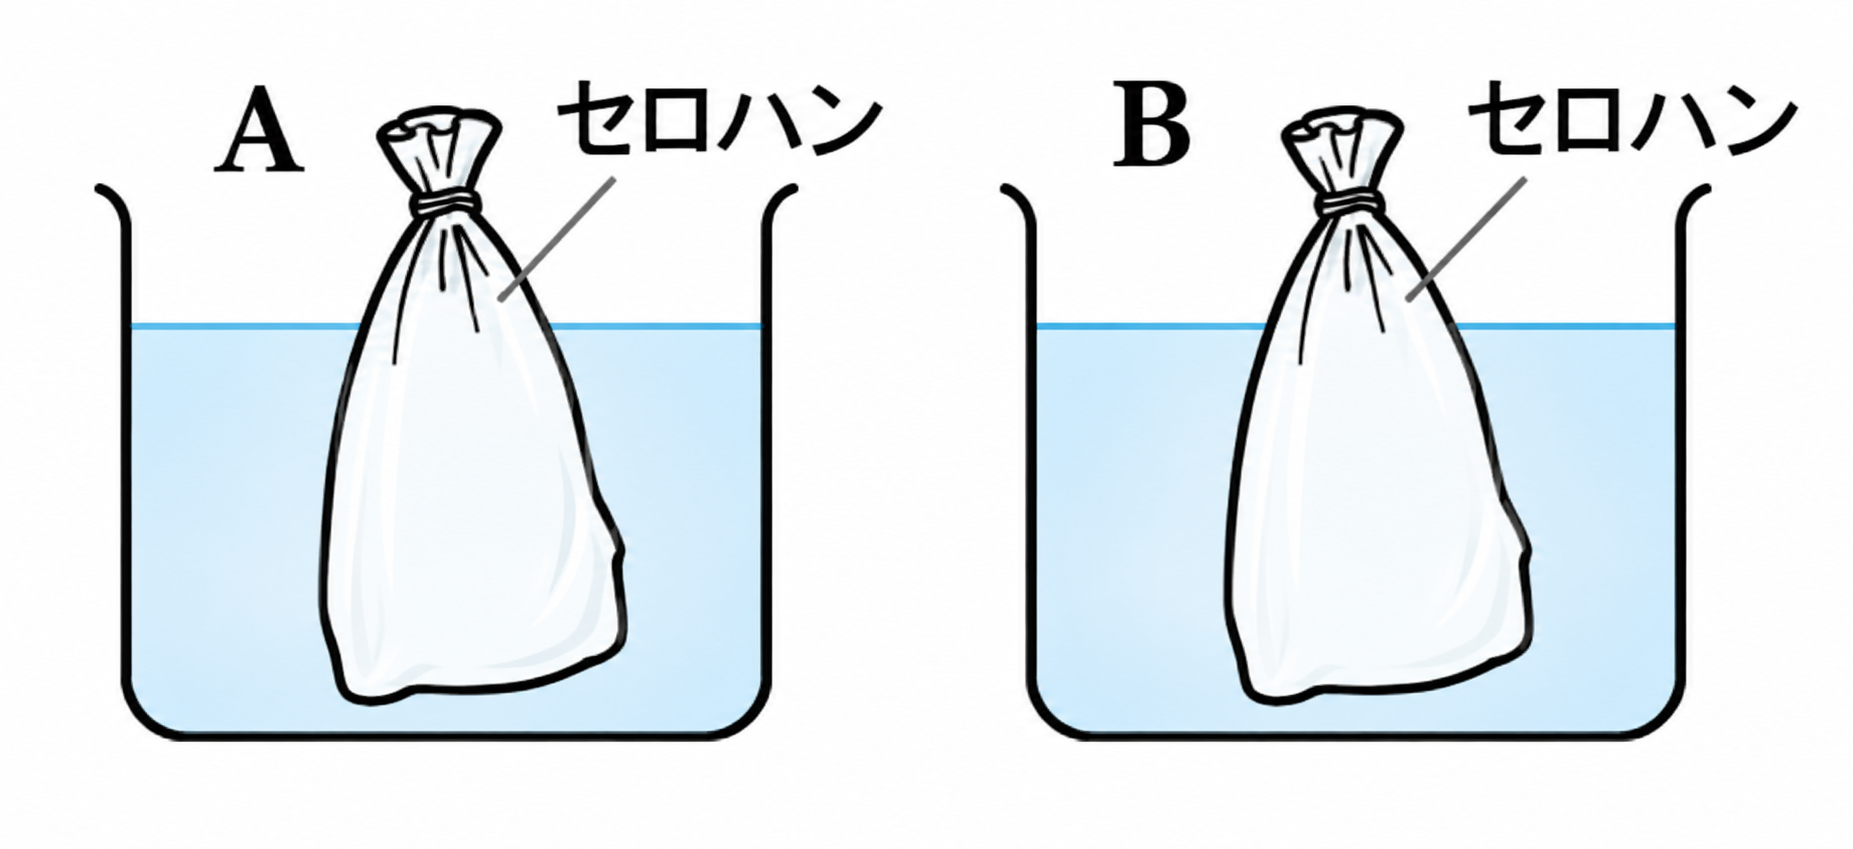
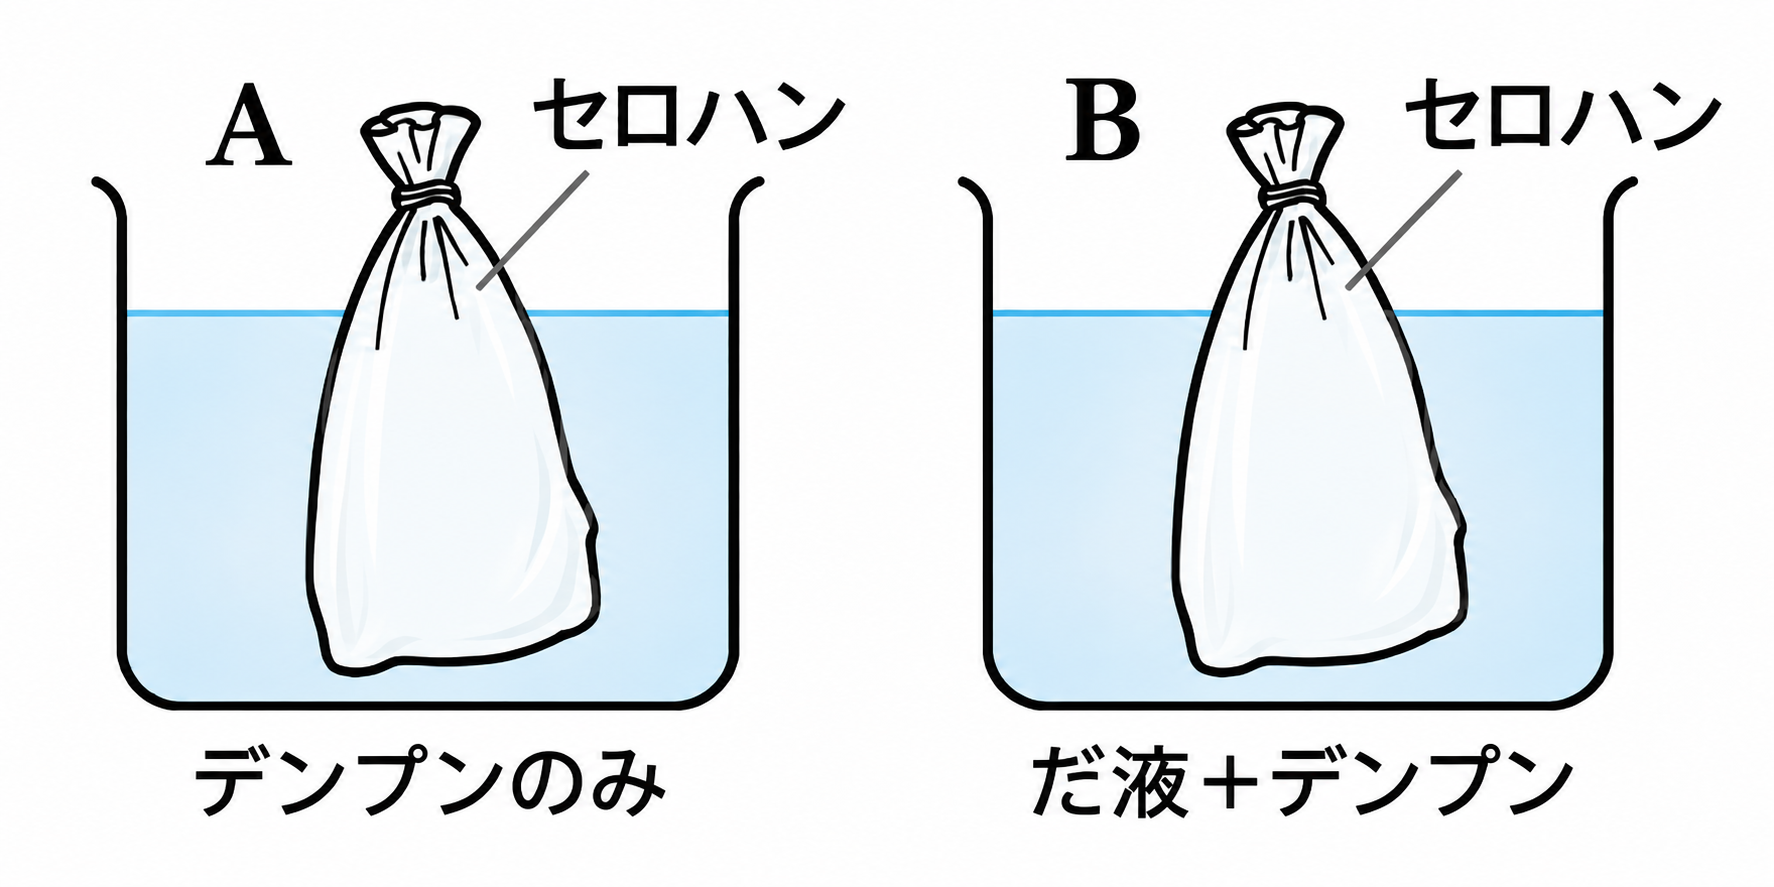
Add files via upload

diff --git a/jintai_ch01.html b/jintai_ch01.html
@@ -315,17 +315,25 @@ canvas#confetti-canvas{position:fixed;top:0;left:0;pointer-events:none;width:100
     <h2>セロハンを使った実験（発展）</h2>
   </div>
   <div class="unit-body">
-    <div class="exp-img"><img src="daekitoi2.png" alt="セロハンの袋を使った実験" style="max-width:100%;border-radius:10px;margin:10px auto;display:block;"></div>
     <div class="exp-text"><p>セロハンの膜には小さな穴があり、<b>小さな粒</b>だけを通し、<b>大きな粒</b>は通しません。</p>
-<p>試験管Aの液（デンプンのまま）とBの液（だ液で糖に変化）をセロハンの袋に入れ、水にしばらくつけたあと、外側の水を調べます。</p>
+<div class="exp-img"><img src="daekitoi3.png" alt="セロハンの膜での粒の大きさのちがい" style="max-width:100%;border-radius:10px;margin:10px auto;display:block;"></div>
+<p><b>【実験】</b><br>
+Aには、デンプン溶液のみをセロハンの袋に入れ、水に浸します。<br>
+Bには、デンプン溶液にだ液を加えたものをセロハンの袋に入れ、水に浸します。</p>
+<p><b>問）</b>Aのセロハンの袋の内側と外側、Bのセロハンの袋の内側と外側の部分で、それぞれヨウ素反応・ベネジクト反応が起こるかどうか答えなさい。</p>
+<div class="exp-img"><img src="daekitoi2.png" alt="セロハンの袋を使った実験（A：デンプンのみ／B：だ液＋デンプン）" style="max-width:100%;border-radius:10px;margin:10px auto;display:block;"></div>
+<p>この実験では、セロハンの袋の<b>内側</b>の液と、袋の外に出た<b>外側</b>の水の両方を調べます。</p>
 <table class="exp-tbl">
-<thead><tr><th>ビーカーの水</th><th>ヨウ素液</th><th>ベネジクト液＋加熱</th></tr></thead>
+<thead><tr><th></th><th>ヨウ素反応</th><th>ベネジクト反応</th></tr></thead>
 <tbody>
-<tr><td class="nc">Aの袋のほう</td><td>変化なし</td><td>変化なし</td></tr>
-<tr><td class="nc">Bの袋のほう</td><td>変化なし</td><td>赤褐色の沈殿</td></tr>
+<tr><td class="nc">Aの内側</td><td>○ 青紫色になる</td><td>✕ 変化なし</td></tr>
+<tr><td class="nc">Aの外側</td><td>✕ 変化なし</td><td>✕ 変化なし</td></tr>
+<tr><td class="nc">Bの内側</td><td>✕ 変化なし</td><td>○ 赤褐色の沈殿</td></tr>
+<tr><td class="nc">Bの外側</td><td>✕ 変化なし</td><td>○ 赤褐色の沈殿</td></tr>
 </tbody>
 </table>
-<p>Aの水は変化しません。デンプンの粒が大きく、セロハンを通れないためです。Bの水は<b>赤褐色</b>の沈殿ができます。糖の粒が小さく、セロハンを通り抜けたためです。</p>
+<p>Aにはだ液を加えていないので、袋の中は<b>デンプンのまま</b>です。デンプンの粒は大きいためセロハンの外に出られず、<b>内側だけ</b>ヨウ素反応が起こり、外側はヨウ素反応・ベネジクト反応ともに変化しません。</p>
+<p>Bはだ液のはたらきでデンプンがほぼすべて<b>糖</b>に変わっているため、内側でもヨウ素反応は起こりません。糖の粒は小さいためセロハンを通り抜けられるので、内側だけでなく<b>外側の水にもベネジクト反応</b>が現れます。</p>
 <div class="pt-box"><b>【重要】</b><br>
 ・セロハンの穴…小さな粒だけを通す<br>
 ・デンプン（大きい）→通れない／糖（小さい）→通れる<br>
@@ -334,10 +342,10 @@ canvas#confetti-canvas{position:fixed;top:0;left:0;pointer-events:none;width:100
     <div class="kw-list"></div>
     <button class="mini-btn" onclick="toggleMini('mt3')">
       🧪 ミニテストに挑戦！
-      <span id="mini-badge-mt3" style="background:#fff;color:var(--pink-d);border-radius:12px;padding:2px 10px;font-size:.82rem;margin-left:8px;">0 / 5</span>
+      <span id="mini-badge-mt3" style="background:#fff;color:var(--pink-d);border-radius:12px;padding:2px 10px;font-size:.82rem;margin-left:8px;">0 / 7</span>
     </button>
     <div class="mini-section" id="mini_mt3">
-      <div class="mini-score-row" id="pips_mt3"><div class="mini-score-pip" id="pip_mt3_1"></div><div class="mini-score-pip" id="pip_mt3_2"></div><div class="mini-score-pip" id="pip_mt3_3"></div><div class="mini-score-pip" id="pip_mt3_4"></div><div class="mini-score-pip" id="pip_mt3_5"></div></div>
+      <div class="mini-score-row" id="pips_mt3"><div class="mini-score-pip" id="pip_mt3_1"></div><div class="mini-score-pip" id="pip_mt3_2"></div><div class="mini-score-pip" id="pip_mt3_3"></div><div class="mini-score-pip" id="pip_mt3_4"></div><div class="mini-score-pip" id="pip_mt3_5"></div><div class="mini-score-pip" id="pip_mt3_6"></div><div class="mini-score-pip" id="pip_mt3_7"></div></div>
       <div class="q-block" id="qblock_mt3_q1">
   <h4>Q1. 文中の①〜⑤に当てはまる語句を語群から選んで入れよう。</h4>
   <p style="font-size:.88rem;color:#555;margin-bottom:6px;">セロハンの穴は①な粒だけを通し、②な粒は通さない。Aの袋（③のまま）を入れた水は変化しなかったが、Bの袋（分解された④）を入れた水はベネジクト液で⑤の沈殿ができた。</p>
@@ -400,6 +408,29 @@ canvas#confetti-canvas{position:fixed;top:0;left:0;pointer-events:none;width:100
   <div class="fb-msg" id="fb_mt3_q5"></div>
   <div class="msample" id="samp_mt3_q5">正解: イ：消化された物質の粒は、もとの物質より小さくなる　デンプン（大きい粒）が消化されて糖（小さい粒）になり、セロハンを通れるようになりました。</div>
 </div>
+<div class="q-block" id="qblock_mt3_q6">
+  <h4>Q6. Aには、デンプン溶液のみをセロハンの袋に入れ、水に浸します。Bには、デンプン溶液にだ液を加えたものをセロハンの袋に入れ、水に浸します。Aのセロハンの袋の内側と外側、Bのセロハンの袋の内側と外側の部分で、それぞれヨウ素反応・ベネジクト反応が起こるかどうかを正しく表しているものはどれか。</h4>
+  <div class="choice-list" id="choices_mt3_q6">
+    <button class="choice-btn" onclick="pick4('mt3',6,0,1,'mt3_q6')">ア：Aは内側だけヨウ素反応が起こる。Bは内側・外側の両方でベネジクト反応が起こる。</button>
+    <button class="choice-btn" onclick="pick4('mt3',6,1,1,'mt3_q6')">イ：Aは内側・外側の両方でヨウ素反応が起こる。Bは内側・外側の両方でベネジクト反応が起こる。</button>
+    <button class="choice-btn" onclick="pick4('mt3',6,2,1,'mt3_q6')">ウ：Aは外側だけヨウ素反応が起こる。Bは内側だけベネジクト反応が起こる。</button>
+    <button class="choice-btn" onclick="pick4('mt3',6,3,1,'mt3_q6')">エ：AもBも内側・外側とも、どちらの反応も起こらない。</button>
+  </div>
+  <div class="fb-msg" id="fb_mt3_q6"></div>
+  <div class="msample" id="samp_mt3_q6">正解: ア　デンプンの粒は大きいため、セロハンの穴を通り抜けることができません。そのため、Aの<b>内側</b>にはデンプンが残っているのでヨウ素反応（青紫色）が起こりますが、<b>外側</b>の水にはデンプンが出てこないため、内側・外側とも反応は起こりません。<br><br>一方、Bはだ液のアミラーゼによってデンプンが<b>糖（麦芽糖など）</b>に分解されています。糖の粒はデンプンより小さいため、セロハンの穴を通り抜けることができます。そのため、Bは<b>内側だけでなく外側の水にも糖が出てきて</b>、内側・外側の両方でベネジクト反応（赤褐色の沈殿）が起こります。<br><br>この実験から、消化された物質（糖）の粒は、もとの物質（デンプン）の粒より<b>小さくなる</b>ことがわかります。</div>
+</div>
+<div class="q-block" id="qblock_mt3_q7">
+  <h4>Q7. 今度はA・Bの中身を入れ替えます。Aには、デンプン溶液にだ液を加えたものをセロハンの袋に入れ、水に浸します。Bには、デンプン溶液のみをセロハンの袋に入れ、水に浸します。Aのセロハンの袋の内側と外側、Bのセロハンの袋の内側と外側の部分で、それぞれヨウ素反応・ベネジクト反応が起こるかどうかを正しく表しているものはどれか。</h4>
+  <div class="exp-img"><img src="daekitoi4.png" alt="セロハンの袋を使った実験（A：だ液＋デンプン／B：デンプンのみ）" style="max-width:100%;border-radius:10px;margin:6px auto 10px;display:block;"></div>
+  <div class="choice-list" id="choices_mt3_q7">
+    <button class="choice-btn" onclick="pick4('mt3',7,0,0,'mt3_q7')">ア：Aは内側・外側の両方でベネジクト反応が起こる。Bは内側だけヨウ素反応が起こる。</button>
+    <button class="choice-btn" onclick="pick4('mt3',7,1,0,'mt3_q7')">イ：Aは内側だけヨウ素反応が起こる。Bは内側・外側の両方でベネジクト反応が起こる。</button>
+    <button class="choice-btn" onclick="pick4('mt3',7,2,0,'mt3_q7')">ウ：Aは内側・外側ともヨウ素反応が起こる。Bは内側・外側ともベネジクト反応が起こる。</button>
+    <button class="choice-btn" onclick="pick4('mt3',7,3,0,'mt3_q7')">エ：AもBも内側・外側とも、どちらの反応も起こらない。</button>
+  </div>
+  <div class="fb-msg" id="fb_mt3_q7"></div>
+  <div class="msample" id="samp_mt3_q7">正解: ア　今度はAにだ液が入っています。Aの中のデンプンはすでに<b>糖</b>に分解されているので、糖の粒はセロハンの穴を通り抜けられます。そのため、Aは<b>内側だけでなく外側の水にもベネジクト反応</b>（赤褐色の沈殿）が起こります。<br><br>一方Bはデンプン溶液のみなので、デンプンの粒が大きくセロハンを通れず、<b>内側だけ</b>ヨウ素反応（青紫色）が起こります。<br><br>A・Bどちらに何が入っているかをよく確認しないと、前の問題と同じ答え（イ）を選んでしまうミスが起こりやすいので注意しましょう。大切なのは記号ではなく、<b>だ液が入っているかどうか</b>です。</div>
+</div>
       <div class="pass-banner" id="pass_mt3">🎉 この単元クリア！すばらしい！ 🎉</div>
     </div>
   </div>
@@ -416,16 +447,6 @@ canvas#confetti-canvas{position:fixed;top:0;left:0;pointer-events:none;width:100
 <p>小腸の内側には図のような<b>柔毛</b>という小さな突起が多数あり、吸収の<b>表面積</b>を大きくしています。</p>
 <p>デンプンは<b>ブドウ糖</b>、タンパク質は<b>アミノ酸</b>、脂肪は<b>脂肪酸</b>と<b>モノグリセリド</b>に分解されます。ブドウ糖とアミノ酸は柔毛の中の<b>毛細血管</b>に、脂肪酸とモノグリセリドは<b>リンパ管</b>に吸収されます。</p>
 <h3>消化液のはたらき</h3>
-<table class="exp-tbl">
-<thead><tr><th>〔暗記〕</th><th>デンプン</th><th>タンパク質</th><th>脂肪</th></tr></thead>
-<tbody>
-<tr><td class="nc">だ液</td><td>○</td><td></td><td></td></tr>
-<tr><td class="nc">胃液</td><td></td><td>○</td><td></td></tr>
-<tr><td class="nc">胆汁</td><td></td><td></td><td>○（酵素なし・乳化）</td></tr>
-<tr><td class="nc">すい液</td><td>○</td><td>○</td><td>○</td></tr>
-<tr><td class="nc">腸液</td><td>○</td><td>○</td><td></td></tr>
-</tbody>
-</table>
 <div class="exp-img"><img src="shouchou7.png" alt="消化液によるデンプン・タンパク質・脂肪の分解（1,2,3の覚え方）" style="max-width:100%;border-radius:10px;margin:10px auto;display:block;"></div>
 <div class="pt-box"><b>【重要】</b><br>
 ・柔毛…小腸の突起。吸収の表面積を大きくする<br>
@@ -831,7 +852,7 @@ const miniDone = {};
 
 miniScore['mt1'] = 0; miniTotal['mt1'] = 6; miniDone['mt1'] = [false, false, false, false, false, false];
 miniScore['mt2'] = 0; miniTotal['mt2'] = 5; miniDone['mt2'] = [false, false, false, false, false];
-miniScore['mt3'] = 0; miniTotal['mt3'] = 5; miniDone['mt3'] = [false, false, false, false, false];
+miniScore['mt3'] = 0; miniTotal['mt3'] = 7; miniDone['mt3'] = [false, false, false, false, false, false, false];
 miniScore['mt4'] = 0; miniTotal['mt4'] = 5; miniDone['mt4'] = [false, false, false, false, false];
 miniScore['mt5'] = 0; miniTotal['mt5'] = 8; miniDone['mt5'] = [false, false, false, false, false, false, false, false];
 miniScore['mt6'] = 0; miniTotal['mt6'] = 3; miniDone['mt6'] = [false, false, false];
